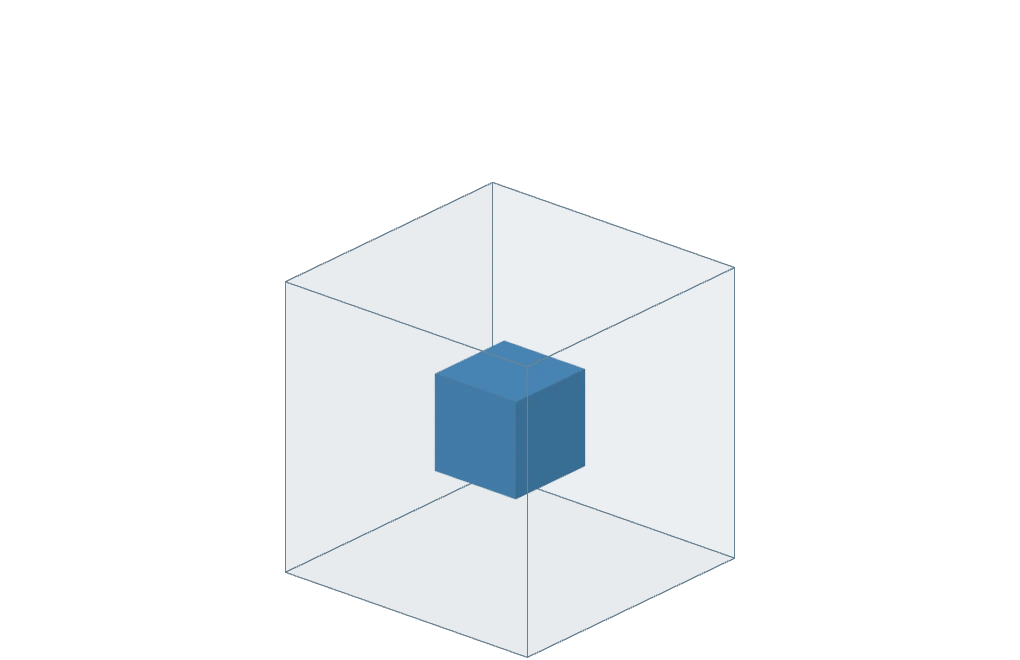
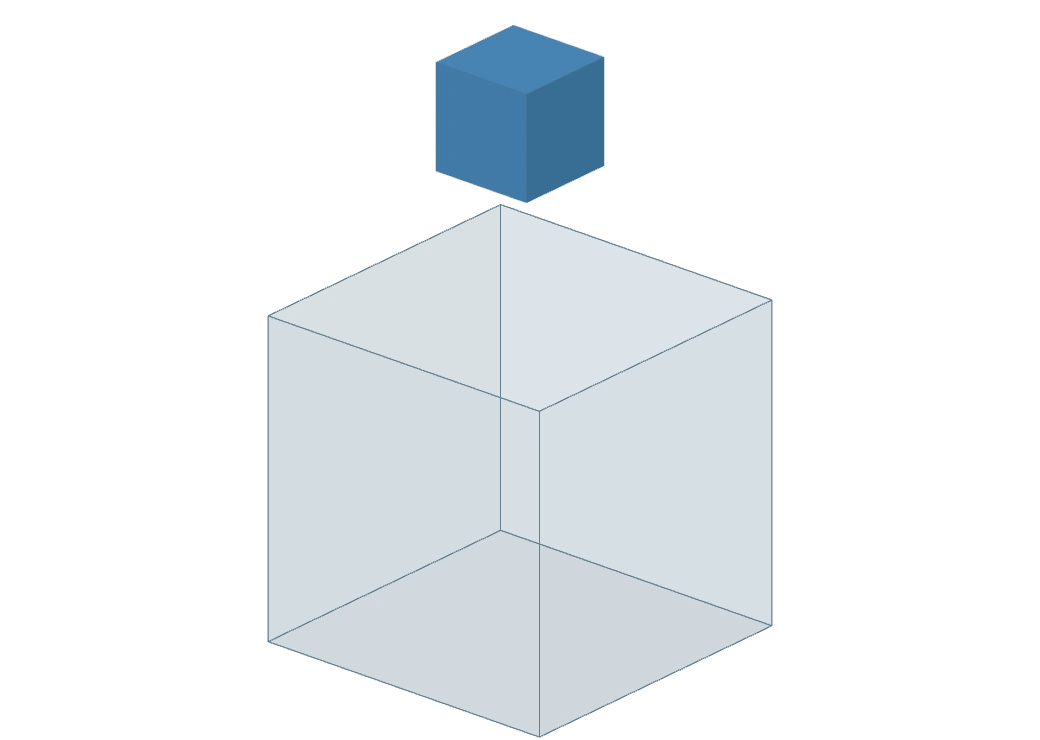
Ease into the roadmap and raise the philosophy core through its shell

diff --git a/components/home/HomeRoadmap.tsx b/components/home/HomeRoadmap.tsx
@@ -19,7 +19,7 @@ export function HomeRoadmap({expanded=false}:{expanded?:boolean}){
  const [milestoneChoice,saveMilestone]=useEntryChoice('milestone',voltronRoadmap.length,-1);
  useEffect(()=>{if(milestoneChoice>=0&&(!manual.current||current.current!==milestoneChoice)){manual.current=true;current.current=milestoneChoice;setIndex(milestoneChoice);setDetail(milestoneChoice);controller.current?.select(milestoneChoice);}},[milestoneChoice]);
  const select=(i:number,user=false)=>{if(user){manual.current=true;saveMilestone(i);}current.current=i;setIndex(i);setDetail(i);if(controller.current&&!prefersStaticScene()){root.current?.setAttribute('data-travelling','true');controller.current.select(i);}};
- useEffect(()=>{let disposed=false,loading=false;const node=host.current;if(!node)return;node.dataset.sceneState='fallback';if(canvas.current)canvas.current.style.opacity=prefersStaticScene()?'0':'1';const observer=new ScenePreparationObserver(async([e])=>{if(!e.isIntersecting||loading||controller.current||prefersStaticScene())return;loading=true;try{const {mountRoadmap}=await import('./roadmap-renderer');await waitForScrollPause();if(disposed||prefersStaticScene()||!canvas.current)return;const scene=await mountRoadmap(canvas.current,node,()=>{if(!disposed){setDetail(current.current);root.current?.setAttribute('data-travelling','false');}});if(disposed||prefersStaticScene())scene.dispose();else{controller.current=scene;node.dataset.sceneState='live';scene.select(current.current);}}catch{node.dataset.ready='false';}finally{loading=false;}},{rootMargin:'200px'});observer.observe(node);return()=>{disposed=true;observer.disconnect();controller.current?.dispose();controller.current=null;delete node.dataset.ready;};},[revision]);
- useEffect(()=>{let raf=0,last=0,time=0,visible=false;const stop=()=>{cancelAnimationFrame(raf);raf=0;last=0;};const tick=(now:number)=>{raf=0;if(!visible||document.hidden||manual.current||prefersStaticScene())return;time+=last&&!isSceneScrollActive(now)?Math.min(.08,(now-last)/1000):0;last=now;const next=Math.min(4,Math.floor(time/5.5));if(next!==current.current)select(next);if(time<27.5)raf=requestAnimationFrame(tick);};const start=()=>{if(visible&&!document.hidden&&!raf&&!manual.current&&!prefersStaticScene()&&time<27.5)raf=requestAnimationFrame(tick);};const view=new IntersectionObserver(([e])=>{visible=e.isIntersecting&&e.intersectionRatio>=.3;if(visible)start();else stop();},{threshold:[0,.3]});if(root.current)view.observe(root.current);const visibility=()=>document.hidden?stop():start();document.addEventListener('visibilitychange',visibility);return()=>{stop();view.disconnect();document.removeEventListener('visibilitychange',visibility);};},[revision]);
+ useEffect(()=>{let disposed=false,loading=false;const node=host.current;if(!node)return;node.dataset.sceneState='fallback';delete node.dataset.growing;if(canvas.current)canvas.current.style.opacity=prefersStaticScene()?'0':'1';const observer=new ScenePreparationObserver(async([e])=>{if(!e.isIntersecting||loading||controller.current||prefersStaticScene())return;loading=true;try{const {mountRoadmap}=await import('./roadmap-renderer');await waitForScrollPause();if(disposed||prefersStaticScene()||!canvas.current)return;node.dataset.initialIndex=node.dataset.index;const scene=await mountRoadmap(canvas.current,node,()=>{if(!disposed){setDetail(current.current);root.current?.setAttribute('data-travelling','false');}});if(disposed||prefersStaticScene())scene.dispose();else{controller.current=scene;node.dataset.sceneState='live';if(current.current!==Number(node.dataset.initialIndex))scene.select(current.current);}}catch{node.dataset.ready='false';}finally{loading=false;}},{rootMargin:'200px'});observer.observe(node);return()=>{disposed=true;observer.disconnect();controller.current?.dispose();controller.current=null;delete node.dataset.ready;};},[revision]);
+ useEffect(()=>{let raf=0,last=0,time=0,visible=false;const stop=()=>{cancelAnimationFrame(raf);raf=0;last=0;};const tick=(now:number)=>{raf=0;if(!visible||document.hidden||manual.current||prefersStaticScene())return;if(controller.current&&host.current)host.current.dataset.growing='true';time+=controller.current&&last&&!isSceneScrollActive(now)?Math.min(.08,(now-last)/1000):0;last=now;const next=Math.min(4,Math.floor(Math.max(0,time-1.1)/5.5));if(next!==current.current)select(next);if(time<28.6)raf=requestAnimationFrame(tick);};const start=()=>{if(visible&&!document.hidden&&!raf&&!manual.current&&!prefersStaticScene()&&time<28.6)raf=requestAnimationFrame(tick);};const view=new IntersectionObserver(([e])=>{visible=e.isIntersecting&&e.intersectionRatio>=.3;if(visible)start();else stop();},{threshold:[0,.3]});if(root.current)view.observe(root.current);const visibility=()=>document.hidden?stop():start();document.addEventListener('visibilitychange',visibility);return()=>{stop();view.disconnect();document.removeEventListener('visibilitychange',visibility);};},[revision]);
  const milestone=voltronRoadmap[detail];return <div ref={root} className={'home-roadmap roadmap-ascent'+(expanded?' is-expanded':'')} data-roadmap-design="capability-ascent"><div className="roadmap-journey"><div className="roadmap-pin"><div className="roadmap-years" role="group" aria-label="Choose a capability milestone">{voltronRoadmap.map((m,i)=><button className="roadmap-year-tablet" key={m.years} type="button" aria-pressed={index===i} aria-controls="roadmap-selected-milestone" onClick={()=>select(i,true)}><span>{m.years}</span></button>)}</div><div className="roadmap-composition"><div className="study-figure"><div className="roadmap-art" ref={host} data-index={index} aria-hidden="true"><AscentStill index={index}/><canvas key={revision} ref={canvas}/></div><StudyReplay/></div><article className="roadmap-card" id="roadmap-selected-milestone" aria-live="polite"><span className="roadmap-period">{milestone.years} · Intended stage</span><h3 className="roadmap-milestone-title">{milestone.title}</h3><p className="roadmap-detail">{milestone.detail}</p><p className="roadmap-gate"><strong>Readiness to advance</strong>{milestone.gate}</p>{expanded&&<details className="roadmap-more"><summary>Capability evidence</summary><ul>{milestone.evidence.map(e=><li key={e}>{e}</li>)}</ul></details>}</article></div><p className="roadmap-ambition-note">A capability-led ambition, counted from the start of operations. Progress depends on demonstrated readiness.</p></div></div></div>;
 }

diff --git a/components/home/philosophy-cubes.ts b/components/home/philosophy-cubes.ts
@@ -14,12 +14,12 @@ export function addPhilosophyLighting(scene:THREE.Scene){
 /** The outer frame stays open toward the viewer as the individual joins the core. */
 export function createMattePhilosophyCubes(){
  const root=new THREE.Group();
- const levels=[philosophyDimensions.outer,philosophyDimensions.core,philosophyDimensions.individual].map((size,level)=>{
+ const levels=[philosophyDimensions.outer,philosophyDimensions.core].map((size,level)=>{
   const group=new THREE.Group(),geometry=new THREE.BoxGeometry(size,size,size);
   const faces=matteFaces();
   for(const [i,m] of faces.entries()){
    m.transparent=true;m.depthWrite=level!==0;
-   m.userData.coverage=level===0?([1,3,5].includes(i)?.16:0):1;
+   m.userData.coverage=level===0?([1,3,5].includes(i)?.27:i===2?.24:.065):1;
    m.visible=m.userData.coverage>0;
    if(level===0)m.side=THREE.DoubleSide;
   }
@@ -33,12 +33,19 @@ export function createMattePhilosophyCubes(){
    line.color.setHex(dark?0x89a6b9:0x526f83);
   });
  }
- function apply(s:{outer:number;core:number;individual:number;height:number;merge?:number}){
-  levels.forEach(({group,faces,line},i)=>{
-   const reveal=[s.outer,s.core,s.individual*(1-(s.merge??0))][i];
-   group.visible=reveal>.001;group.position.y=i===2?s.height:0;group.scale.setScalar(.94+.06*reveal);
-   faces.forEach(m=>m.opacity=m.userData.coverage*reveal);line.opacity=(i===0?.85:.35)*reveal;
-  });
+ const outline=levels[0].edges.getAttribute('position');
+ const endpoints=new Float32Array(outline.array);
+ function apply(s:ReturnType<typeof import('./philosophy-cube-timeline').homePhilosophyCubeState>){
+  for(let i=0;i<outline.count;i+=2){
+   const a=i*3,b=a+3;
+   outline.setXYZ(i+1,...[0,1,2].map(axis=>THREE.MathUtils.lerp(endpoints[a+axis],endpoints[b+axis],s.outer)) as [number,number,number]);
+  }
+  outline.needsUpdate=true;
+  const [shell,core]=levels;
+  shell.line.opacity=.85;shell.group.visible=s.outer>0;
+  shell.faces.forEach((m,i)=>m.opacity=m.userData.coverage*s.shell*(i===2?1-s.opening:1));
+  core.group.visible=s.core>0;core.group.scale.setScalar(s.core);
+  core.group.position.y=s.height;core.faces.forEach(m=>m.opacity=s.core);core.line.opacity=.35*s.core;
  }
  setTheme(false);return {root,groups:levels.map(l=>l.group),setTheme,apply,dispose(){levels.forEach(l=>{l.geometry.dispose();l.edges.dispose();l.line.dispose();l.faces.forEach(f=>f.dispose());});}};
 }

diff --git a/components/home/philosophy-cube-timeline.ts b/components/home/philosophy-cube-timeline.ts
@@ -3,11 +3,11 @@ export const philosophyCamera={position:[6,4.8,7],target:[0,.65,0]} as const;
 export const philosophyEase=(value:number)=>{const t=Math.max(0,Math.min(1,value));return t*t*(3-2*t);};
 export function philosophyCubeState(seconds:number){const time=Number.isFinite(seconds)?Math.max(0,seconds):0;return {outer:philosophyEase(time/1.05),core:philosophyEase((time-1.2)/1.6),individual:philosophyEase((time-2.9)/.35),height:philosophyDimensions.travel*philosophyEase((time-3.15)/1.85)};}
 export const homePhilosophyDuration=6.8;
-/** A solid individual aligns in space, descends, then joins the existing core. */
+/** One core forms inside the drawn frame and rises through the open crown. */
 export function homePhilosophyCubeState(seconds:number){
- const time=Number.isFinite(seconds)?Math.max(0,Math.min(homePhilosophyDuration,seconds)):0;
- const align=philosophyEase((time-2.6)/1.25),descent=Math.max(0,Math.min(1,(time-4)/2.05)),merge=philosophyEase((time-6.05)/.75);
- return {outer:philosophyEase(time/1.05),core:philosophyEase((time-1.2)/1.3),individual:philosophyEase((time-2.65)/.85),
- height:philosophyDimensions.travel*(1-descent),merge,alignment:align,response:Math.sin(Math.PI*merge),time,
- phase:time<1.2?'structure':time<2.6?'core':time<4?'aligning':time<6.05?'descending':time<homePhilosophyDuration?'joining':'settled'};
+ const t=Number.isFinite(seconds)?Math.max(0,seconds):0;
+ return {outer:philosophyEase(t/1.2),core:philosophyEase((t-1.2)/1.2),
+  shell:philosophyEase((t-2.4)/1.2),opening:philosophyEase((t-3.6)/.65),
+  height:philosophyDimensions.travel*philosophyEase((t-4.15)/1.8),
+  phase:t<1.2?'edges':t<2.4?'core':t<3.6?'shell':t<4.15?'opening':t<5.95?'rising':'settled'};
 }

diff --git a/tests/philosophy-wave.test.ts b/tests/philosophy-wave.test.ts
@@ -1,6 +1,10 @@
-import {describe,it,expect} from 'vitest';
-import {homePhilosophyCubeState,philosophyDimensions,homePhilosophyDuration} from '../components/home/philosophy-cube-timeline';
-describe('homepage Philosophy spatial alignment and descent',()=>{
- it('keeps a solid cube above the structure until alignment completes',()=>{expect(homePhilosophyCubeState(2.6).individual).toBe(0);expect(homePhilosophyCubeState(4).individual).toBe(1);expect(homePhilosophyCubeState(4).height).toBe(philosophyDimensions.travel);expect(homePhilosophyCubeState(5).height).toBeLessThan(philosophyDimensions.travel);});
- it('enters the inner core and merges at its center',()=>{const pose=homePhilosophyCubeState(homePhilosophyDuration);expect(pose.height).toBe(0);expect(pose.individual).toBe(1);expect(pose.merge).toBe(1);expect(homePhilosophyCubeState(6).merge).toBe(0);expect(homePhilosophyCubeState(99).height).toBe(pose.height);expect(homePhilosophyCubeState(NaN).individual).toBe(0);});
+import {expect,it} from 'vitest';
+import {homePhilosophyCubeState as pose,philosophyDimensions} from '../components/home/philosophy-cube-timeline';
+it('draws edges, forms the core, then completes the shell before ascent',()=>{
+ expect(pose(1.2)).toMatchObject({outer:1,core:0,shell:0});
+ expect(pose(2.4)).toMatchObject({core:1,shell:0,height:0});
+ expect(pose(3.6).shell).toBe(1);
+ expect(pose(4.15).height).toBe(0);
+ expect(pose(5).height).toBeGreaterThan(0);
+ expect(pose(6)).toMatchObject({opening:1,height:philosophyDimensions.travel,phase:'settled'});
 });

diff --git a/components/home/cube-renderer.ts b/components/home/cube-renderer.ts
@@ -155,7 +155,7 @@ export function mountCubes(canvas: HTMLCanvasElement, host: HTMLDivElement, opti
   }
   function stop(){cancelAnimationFrame(frame);frame=0;previous=0;canvas.dataset.continuousRendering="false";}
   function state(){
-    if(philosophy){const pose=homePhilosophyCubeState(motion.matches?duration:elapsed);philosophy.apply(pose);canvas.dataset.individualFormation=pose.individual.toFixed(3);canvas.dataset.individualHeight=pose.height.toFixed(3);canvas.dataset.individualMerge=pose.merge.toFixed(3);canvas.dataset.waveVisible='false';canvas.dataset.philosophyPhase=pose.phase;return;}
+    if(philosophy){const pose=homePhilosophyCubeState(motion.matches?duration:elapsed);philosophy.apply(pose);canvas.dataset.individualFormation=pose.core.toFixed(3);canvas.dataset.individualHeight=pose.height.toFixed(3);canvas.dataset.waveVisible='false';canvas.dataset.philosophyPhase=pose.phase;return;}
     if(options.kind==="enclosure"){
       const time=motion.matches?6.5:elapsed-sequenceDelay;
       const asset=ease(time/.8),reveal=ease((time-.9)/1.1);

diff --git a/app/home-surfaces.css b/app/home-surfaces.css
@@ -195,3 +195,8 @@ body:has(.home-page)::before{content:"";position:fixed;inset:0;z-index:-1;backgr
  .site-presentation .home-roadmap.roadmap-ascent .roadmap-art{height:clamp(154px,46vw,205px)}
  .site-presentation .home-roadmap.roadmap-ascent .roadmap-composition{gap:8px}
 }
+
+@media(prefers-reduced-motion:no-preference){
+ :root[data-scene-motion=motion] .roadmap-art[data-index="0"]:not([data-growing=true])>:is(canvas,.roadmap-still){transform:scale(.86)}
+ :root[data-scene-motion=motion] .roadmap-art[data-growing=true][data-index="0"]>canvas{transition:transform .95s cubic-bezier(.35,0,.25,1);transform:scale(1)}
+}
